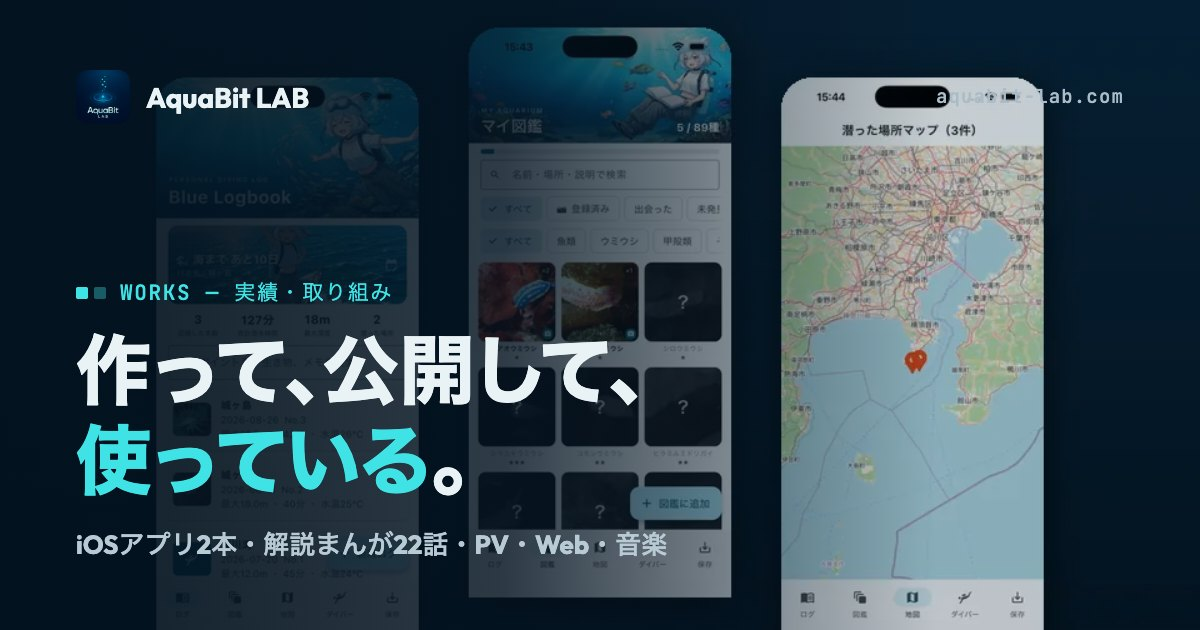
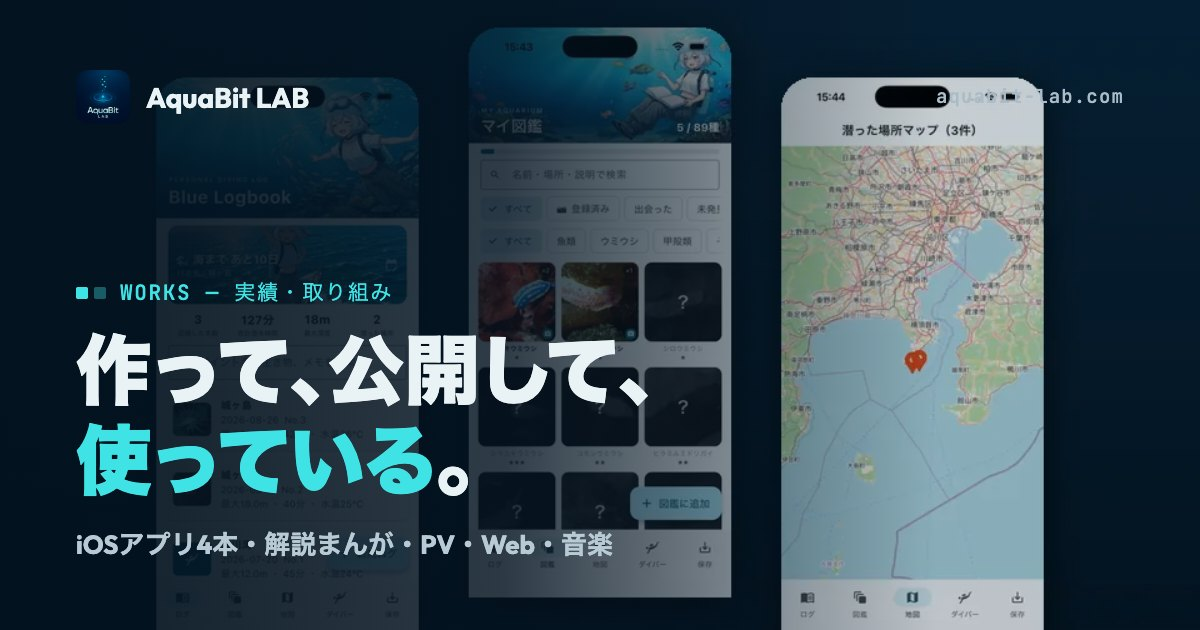
龍脈マップを「App Store で公開中」に・海学アプリも公開中に（実績・案内ページ・アプリ数を4本に）
- /ryumyaku/: App Store の公式バッジ、画面3枚、公開日、構造化データにダウンロード先、共有画像 og-ryumyaku.jpg
- /works: 龍脈マップと海学のカードを実画面つき・公開中に、ItemList に2本追加、共有画像の「2本」を「4本」に
- トップ・ABLとは・AI導入サポート・llms.txt のアプリ数と名前、sitemap の日付

diff --git a/works.html b/works.html
@@ -4,7 +4,7 @@
 <meta charset="utf-8">
 <meta name="viewport" content="width=device-width, initial-scale=1, viewport-fit=cover">
 <title>実績・取り組み｜AIで作ったアプリ・まんが・映像・Web｜AquaBit LAB</title>
-<meta name="description" content="AquaBit LABがAIといっしょに作り、公開・運用しているもの。App Storeで公開中のiOSアプリ「Blue Logbook」「いまメシ」、解説まんが22話、PV・データ映像、アルバム「魚歌」、Webサイトの全面リニューアル、AI検索対策、著書、AIウェビナーなど。">
+<meta name="description" content="AquaBit LABがAIといっしょに作り、公開・運用しているもの。App Storeで公開中のiOSアプリ「Blue Logbook」「いまメシ」「海学」「龍脈マップ」、解説まんが22話、PV・データ映像、アルバム「魚歌」、Webサイトの全面リニューアル、AI検索対策、著書、AIウェビナーなど。">
 <meta name="robots" content="index,follow,max-image-preview:large">
 <link rel="canonical" href="https://aquabit-lab.com/works">
 <meta name="theme-color" content="#03121f">
@@ -12,7 +12,7 @@
 <meta property="og:site_name" content="AquaBit LAB">
 <meta property="og:locale" content="ja_JP">
 <meta property="og:title" content="作って、公開して、使っている。— 実績・取り組み｜AquaBit LAB">
-<meta property="og:description" content="AquaBit LABがAIといっしょに作り、公開・運用しているもの。App Storeで公開中のiOSアプリ「Blue Logbook」「いまメシ」、解説まんが22話、PV・データ映像、アルバム「魚歌」、Webサイトの全面リニューアル、AI検索対策、著書、AIウェビナーなど。">
+<meta property="og:description" content="AquaBit LABがAIといっしょに作り、公開・運用しているもの。App Storeで公開中のiOSアプリ「Blue Logbook」「いまメシ」「海学」「龍脈マップ」、解説まんが22話、PV・データ映像、アルバム「魚歌」、Webサイトの全面リニューアル、AI検索対策、著書、AIウェビナーなど。">
 <meta property="og:url" content="https://aquabit-lab.com/works">
 <meta property="og:image" content="https://aquabit-lab.com/images/abl/og-works.jpg">
 <meta property="og:image:width" content="1200">
@@ -26,7 +26,7 @@
 <link rel="stylesheet" href="https://fonts.googleapis.com/css2?family=JetBrains+Mono:wght@400;500&family=Outfit:wght@500;700;800&display=swap" media="print" onload="this.media='all'">
 <link rel="stylesheet" href="/css/abl.css?v=20261013">
 <script>document.documentElement.classList.add('js')</script>
-<script type="application/ld+json">{"@context":"https://schema.org","@graph":[{"@type":"CollectionPage","name":"実績・取り組み","url":"https://aquabit-lab.com/works","isPartOf":{"@id":"https://aquabit-lab.com/#site"},"mainEntity":{"@type":"ItemList","itemListElement":[{"@type":"ListItem","position":1,"item":{"@type":"SoftwareApplication","name":"Blue Logbook - ダイビングログブック","operatingSystem":"iOS","applicationCategory":"SportsApplication","url":"https://apps.apple.com/jp/app/id6806158093","offers":{"@type":"Offer","price":"0","priceCurrency":"JPY"},"author":{"@type":"Person","name":"吉田 哲司"}}},{"@type":"ListItem","position":2,"item":{"@type":"SoftwareApplication","name":"いまメシ","operatingSystem":"iOS","applicationCategory":"FoodAndDrinkApplication","url":"https://apps.apple.com/jp/app/id6806607641","offers":{"@type":"Offer","price":"0","priceCurrency":"JPY"},"author":{"@type":"Person","name":"吉田 哲司"}}},{"@type":"ListItem","position":3,"item":{"@type":"CreativeWorkSeries","name":"まんがで読むダイビング","url":"https://miura-diving.com/manga/"}},{"@type":"ListItem","position":4,"item":{"@type":"MusicAlbum","name":"魚歌 UO-UTA","url":"https://tj-music.com/","numTracks":19}}]}},{"@type":"BreadcrumbList","itemListElement":[{"@type":"ListItem","position":1,"name":"ホーム","item":"https://aquabit-lab.com/"},{"@type":"ListItem","position":2,"name":"実績・取り組み","item":"https://aquabit-lab.com/works"}]}]}</script>
+<script type="application/ld+json">{"@context":"https://schema.org","@graph":[{"@type":"CollectionPage","name":"実績・取り組み","url":"https://aquabit-lab.com/works","isPartOf":{"@id":"https://aquabit-lab.com/#site"},"mainEntity":{"@type":"ItemList","itemListElement":[{"@type":"ListItem","position":1,"item":{"@type":"SoftwareApplication","name":"Blue Logbook - ダイビングログブック","operatingSystem":"iOS","applicationCategory":"SportsApplication","url":"https://apps.apple.com/jp/app/id6806158093","offers":{"@type":"Offer","price":"0","priceCurrency":"JPY"},"author":{"@type":"Person","name":"吉田 哲司"}}},{"@type":"ListItem","position":2,"item":{"@type":"SoftwareApplication","name":"いまメシ","operatingSystem":"iOS","applicationCategory":"FoodAndDrinkApplication","url":"https://apps.apple.com/jp/app/id6806607641","offers":{"@type":"Offer","price":"0","priceCurrency":"JPY"},"author":{"@type":"Person","name":"吉田 哲司"}}},{"@type":"ListItem","position":3,"item":{"@type":"SoftwareApplication","name":"龍脈マップ","operatingSystem":"iOS","applicationCategory":"TravelApplication","url":"https://apps.apple.com/jp/app/id6831985741","offers":{"@type":"Offer","price":"0","priceCurrency":"JPY"},"author":{"@type":"Person","name":"吉田 哲司"}}},{"@type":"ListItem","position":4,"item":{"@type":"SoftwareApplication","name":"海学","operatingSystem":"iOS","applicationCategory":"GameApplication","url":"https://apps.apple.com/jp/app/id6810276864","offers":{"@type":"Offer","price":"0","priceCurrency":"JPY"},"author":{"@type":"Person","name":"吉田 哲司"}}},{"@type":"ListItem","position":5,"item":{"@type":"CreativeWorkSeries","name":"まんがで読むダイビング","url":"https://miura-diving.com/manga/"}},{"@type":"ListItem","position":6,"item":{"@type":"MusicAlbum","name":"魚歌 UO-UTA","url":"https://tj-music.com/","numTracks":19}}]}},{"@type":"BreadcrumbList","itemListElement":[{"@type":"ListItem","position":1,"name":"ホーム","item":"https://aquabit-lab.com/"},{"@type":"ListItem","position":2,"name":"実績・取り組み","item":"https://aquabit-lab.com/works"}]}]}</script>
 </head>
 <body class="">
 <a class="skip" href="#main">本文へ移動</a>
@@ -97,23 +97,25 @@
         </div>
       </a>
       <a class="work work--row reveal" data-cat="apps" href="/ryumyaku/">
-        <div class="work__media" style="display:grid;place-items:center;background:radial-gradient(70% 80% at 60% 30%,#3a2f12,#03121f)"><div style="width:62%"><svg viewBox="0 0 600 420" aria-hidden="true" focusable="false"><ellipse cx="300" cy="300" rx="38" ry="10.6" fill="none" stroke="#3fe3e6" stroke-width="2" opacity="0.9"/><ellipse cx="300" cy="300" rx="86" ry="24.1" fill="none" stroke="#3fe3e6" stroke-width="1.6" opacity="0.6"/><ellipse cx="300" cy="300" rx="148" ry="41.4" fill="none" stroke="#3fe3e6" stroke-width="1.3" opacity="0.38"/><ellipse cx="300" cy="300" rx="222" ry="62.2" fill="none" stroke="#3fe3e6" stroke-width="1" opacity="0.22"/><ellipse cx="300" cy="300" rx="296" ry="82.9" fill="none" stroke="#3fe3e6" stroke-width="1" opacity="0.12"/><path d="M300 262c-6 12-9 20-9 27a9 9 0 0 0 18 0c0-7-3-15-9-27z" fill="#3fe3e6"/><rect x="289.9" y="240.8" width="11.9" height="11.9" rx="1.4" fill="#3fe3e6" opacity="1.00"/><rect x="295.4" y="238.0" width="10.2" height="10.2" rx="1.4" fill="#3fe3e6" opacity="0.97"/><rect x="296.0" y="232.9" width="8.2" height="8.2" rx="1.4" fill="#3fe3e6" opacity="0.95"/><rect x="286.7" y="222.8" width="8.5" height="8.5" rx="1.4" fill="#3fe3e6" opacity="0.92"/><rect x="303.5" y="216.6" width="8.7" height="8.7" rx="1.4" fill="#3fe3e6" opacity="0.89"/><rect x="296.6" y="209.9" width="13.7" height="13.7" rx="1.4" fill="#3fe3e6" opacity="0.87"/><rect x="290.0" y="200.1" width="13.9" height="13.9" rx="1.4" fill="#3fe3e6" opacity="0.84"/><rect x="307.0" y="201.3" width="9.7" height="9.7" rx="1.4" fill="#3fe3e6" opacity="0.82"/><rect x="281.3" y="194.0" width="9.9" height="9.9" rx="1.4" fill="#3fe3e6" opacity="0.79"/><rect x="281.8" y="180.3" width="11.5" height="11.5" rx="1.4" fill="#3fe3e6" opacity="0.76"/><rect x="290.5" y="177.5" width="8.3" height="8.3" rx="1.4" fill="#3fe3e6" opacity="0.74"/><rect x="277.1" y="178.1" width="6.2" height="6.2" rx="1.4" fill="#3fe3e6" opacity="0.71"/><rect x="293.1" y="165.4" width="6.9" height="6.9" rx="1.4" fill="#3fe3e6" opacity="0.68"/><rect x="294.2" y="160.1" width="6.8" height="6.8" rx="1.4" fill="#3fe3e6" opacity="0.66"/><rect x="307.5" y="152.0" width="6.5" height="6.5" rx="1.4" fill="#3fe3e6" opacity="0.63"/><rect x="296.3" y="146.1" width="10.3" height="10.3" rx="1.4" fill="#3fe3e6" opacity="0.61"/><rect x="281.8" y="138.1" width="10.9" height="10.9" rx="1.4" fill="#3fe3e6" opacity="0.58"/><rect x="290.1" y="138.6" width="9.5" height="9.5" rx="1.4" fill="#3fe3e6" opacity="0.55"/><rect x="296.7" y="134.3" width="5.2" height="5.2" rx="1.4" fill="#3fe3e6" opacity="0.53"/><rect x="314.0" y="121.3" width="8.4" height="8.4" rx="1.4" fill="#3fe3e6" opacity="0.50"/><rect x="282.0" y="112.7" width="9.2" height="9.2" rx="1.4" fill="#3fe3e6" opacity="0.47"/><rect x="302.1" y="110.0" width="7.7" height="7.7" rx="1.4" fill="#3fe3e6" opacity="0.45"/><rect x="330.8" y="101.3" width="7.8" height="7.8" rx="1.4" fill="#3fe3e6" opacity="0.42"/><rect x="259.8" y="96.2" width="9.2" height="9.2" rx="1.4" fill="#3fe3e6" opacity="0.39"/><rect x="336.5" y="89.8" width="9.9" height="9.9" rx="1.4" fill="#3fe3e6" opacity="0.37"/><rect x="285.6" y="87.6" width="9.0" height="9.0" rx="1.4" fill="#3fe3e6" opacity="0.34"/><rect x="293.5" y="85.6" width="6.0" height="6.0" rx="1.4" fill="#3fe3e6" opacity="0.32"/><rect x="254.2" y="76.6" width="9.6" height="9.6" rx="1.4" fill="#3fe3e6" opacity="0.29"/><rect x="272.1" y="71.4" width="7.3" height="7.3" rx="1.4" fill="#3fe3e6" opacity="0.26"/><rect x="254.6" y="57.6" width="7.7" height="7.7" rx="1.4" fill="#3fe3e6" opacity="0.24"/><rect x="334.1" y="53.5" width="9.9" height="9.9" rx="1.4" fill="#3fe3e6" opacity="0.21"/><rect x="273.0" y="45.4" width="7.5" height="7.5" rx="1.4" fill="#3fe3e6" opacity="0.18"/><rect x="336.1" y="42.6" width="10.7" height="10.7" rx="1.4" fill="#3fe3e6" opacity="0.18"/><rect x="260.9" y="40.7" width="6.4" height="6.4" rx="1.4" fill="#3fe3e6" opacity="0.18"/></svg></div><div class="work__badge"><span class="tag">近日公開</span><span class="tag">無料</span></div></div>
+        <div class="work__media"><img src="/images/abl/work-ryumyaku.webp" alt="龍脈マップのアプリ画面3枚。金の線で描いた尾根の地図、神社の「ここの読み方」、百人一首の便り" width="960" height="600" loading="lazy"><div class="work__badge"><span class="tag tag--live">App Store 公開中</span><span class="tag">無料</span></div></div>
         <div class="work__body">
-          <p class="work__cat">iOS APP · COMING SOON</p>
+          <p class="work__cat">iOS APP · 2026.11</p>
           <h3>龍脈マップ — 神社と、土地のかたちを見る地図</h3>
           <p>全国の神社・お寺・自然の場所 約10万か所と、国土地理院の標高から計算した尾根のつながり「龍脈」。暦と方位もいっしょに見られるiPhoneアプリです。場所のデータと作り方も公開しています。</p>
-          <p class="work__ai"><span class="tag tag--ai">AI</span>設計・実装・データの整備に伴走。何を作るかと、最後の確認は人が。</p>
-          <span class="work__more">案内とサポートを見る <svg class="arr" viewBox="0 0 24 24" fill="none" stroke="currentColor" stroke-width="1.6" stroke-linecap="round" stroke-linejoin="round" aria-hidden="true"><path d="M4 12h15M13 6l6 6-6 6"/></svg></span>
+          <p class="work__ai"><span class="tag tag--ai">AI</span>設計・実装・データの整備・App Store審査への対応に伴走。何を作るかと、最後の確認は人が。</p>
+          <span class="work__more">案内とダウンロード <svg class="arr" viewBox="0 0 24 24" fill="none" stroke="currentColor" stroke-width="1.6" stroke-linecap="round" stroke-linejoin="round" aria-hidden="true"><path d="M4 12h15M13 6l6 6-6 6"/></svg></span>
         </div>
       </a>
-      <div class="work work--row reveal" data-cat="apps">
-        <div class="work__media" style="display:grid;place-items:center;background:radial-gradient(70% 80% at 60% 30%,#0f4a63,#03121f)"><div style="width:62%"><svg viewBox="0 0 600 420" aria-hidden="true" focusable="false"><ellipse cx="300" cy="300" rx="38" ry="10.6" fill="none" stroke="#3fe3e6" stroke-width="2" opacity="0.9"/><ellipse cx="300" cy="300" rx="86" ry="24.1" fill="none" stroke="#3fe3e6" stroke-width="1.6" opacity="0.6"/><ellipse cx="300" cy="300" rx="148" ry="41.4" fill="none" stroke="#3fe3e6" stroke-width="1.3" opacity="0.38"/><ellipse cx="300" cy="300" rx="222" ry="62.2" fill="none" stroke="#3fe3e6" stroke-width="1" opacity="0.22"/><ellipse cx="300" cy="300" rx="296" ry="82.9" fill="none" stroke="#3fe3e6" stroke-width="1" opacity="0.12"/><path d="M300 262c-6 12-9 20-9 27a9 9 0 0 0 18 0c0-7-3-15-9-27z" fill="#3fe3e6"/><rect x="289.9" y="240.8" width="11.9" height="11.9" rx="1.4" fill="#3fe3e6" opacity="1.00"/><rect x="295.4" y="238.0" width="10.2" height="10.2" rx="1.4" fill="#3fe3e6" opacity="0.97"/><rect x="296.0" y="232.9" width="8.2" height="8.2" rx="1.4" fill="#3fe3e6" opacity="0.95"/><rect x="286.7" y="222.8" width="8.5" height="8.5" rx="1.4" fill="#3fe3e6" opacity="0.92"/><rect x="303.5" y="216.6" width="8.7" height="8.7" rx="1.4" fill="#3fe3e6" opacity="0.89"/><rect x="296.6" y="209.9" width="13.7" height="13.7" rx="1.4" fill="#3fe3e6" opacity="0.87"/><rect x="290.0" y="200.1" width="13.9" height="13.9" rx="1.4" fill="#3fe3e6" opacity="0.84"/><rect x="307.0" y="201.3" width="9.7" height="9.7" rx="1.4" fill="#3fe3e6" opacity="0.82"/><rect x="281.3" y="194.0" width="9.9" height="9.9" rx="1.4" fill="#3fe3e6" opacity="0.79"/><rect x="281.8" y="180.3" width="11.5" height="11.5" rx="1.4" fill="#3fe3e6" opacity="0.76"/><rect x="290.5" y="177.5" width="8.3" height="8.3" rx="1.4" fill="#3fe3e6" opacity="0.74"/><rect x="277.1" y="178.1" width="6.2" height="6.2" rx="1.4" fill="#3fe3e6" opacity="0.71"/><rect x="293.1" y="165.4" width="6.9" height="6.9" rx="1.4" fill="#3fe3e6" opacity="0.68"/><rect x="294.2" y="160.1" width="6.8" height="6.8" rx="1.4" fill="#3fe3e6" opacity="0.66"/><rect x="307.5" y="152.0" width="6.5" height="6.5" rx="1.4" fill="#3fe3e6" opacity="0.63"/><rect x="296.3" y="146.1" width="10.3" height="10.3" rx="1.4" fill="#3fe3e6" opacity="0.61"/><rect x="281.8" y="138.1" width="10.9" height="10.9" rx="1.4" fill="#3fe3e6" opacity="0.58"/><rect x="290.1" y="138.6" width="9.5" height="9.5" rx="1.4" fill="#3fe3e6" opacity="0.55"/><rect x="296.7" y="134.3" width="5.2" height="5.2" rx="1.4" fill="#3fe3e6" opacity="0.53"/><rect x="314.0" y="121.3" width="8.4" height="8.4" rx="1.4" fill="#3fe3e6" opacity="0.50"/><rect x="282.0" y="112.7" width="9.2" height="9.2" rx="1.4" fill="#3fe3e6" opacity="0.47"/><rect x="302.1" y="110.0" width="7.7" height="7.7" rx="1.4" fill="#3fe3e6" opacity="0.45"/><rect x="330.8" y="101.3" width="7.8" height="7.8" rx="1.4" fill="#3fe3e6" opacity="0.42"/><rect x="259.8" y="96.2" width="9.2" height="9.2" rx="1.4" fill="#3fe3e6" opacity="0.39"/><rect x="336.5" y="89.8" width="9.9" height="9.9" rx="1.4" fill="#3fe3e6" opacity="0.37"/><rect x="285.6" y="87.6" width="9.0" height="9.0" rx="1.4" fill="#3fe3e6" opacity="0.34"/><rect x="293.5" y="85.6" width="6.0" height="6.0" rx="1.4" fill="#3fe3e6" opacity="0.32"/><rect x="254.2" y="76.6" width="9.6" height="9.6" rx="1.4" fill="#3fe3e6" opacity="0.29"/><rect x="272.1" y="71.4" width="7.3" height="7.3" rx="1.4" fill="#3fe3e6" opacity="0.26"/><rect x="254.6" y="57.6" width="7.7" height="7.7" rx="1.4" fill="#3fe3e6" opacity="0.24"/><rect x="334.1" y="53.5" width="9.9" height="9.9" rx="1.4" fill="#3fe3e6" opacity="0.21"/><rect x="273.0" y="45.4" width="7.5" height="7.5" rx="1.4" fill="#3fe3e6" opacity="0.18"/><rect x="336.1" y="42.6" width="10.7" height="10.7" rx="1.4" fill="#3fe3e6" opacity="0.18"/><rect x="260.9" y="40.7" width="6.4" height="6.4" rx="1.4" fill="#3fe3e6" opacity="0.18"/></svg></div><div class="work__badge"><span class="tag">開発中</span></div></div>
+      <a class="work work--row reveal" data-cat="apps" href="https://miura-diving.com/umigaku-app/" target="_blank" rel="noopener">
+        <div class="work__media"><img src="/images/abl/work-umigaku-app.webp" alt="海学のアプリ画面3枚。ガチャで出会った海のなかま、歩数と相棒のホーム、今日の海のタロット" width="960" height="600" loading="lazy"><div class="work__badge"><span class="tag tag--live">App Store 公開中</span><span class="tag">無料</span></div></div>
         <div class="work__body">
-          <p class="work__cat">iOS APP · IN DEVELOPMENT</p>
-          <h3>三浦 海の学校 公式アプリ</h3>
-          <p>海の学校のお客さま向けのアプリを開発中です。歩いた日も、潜った日も、海とのつながりが続くように。</p>
+          <p class="work__cat">iOS APP · 2026.09</p>
+          <h3>海学 — 三浦 海の学校の公式アプリ</h3>
+          <p>歩いた日も、潜った日も、海とのつながりが続くように。歩数といっしょに海の相棒と過ごし、1日1枚の「海のタロット」や海のなかま図鑑を楽しめます。予約の相談は公式LINEへ。アカウント登録なしで使えます。</p>
+          <p class="work__ai"><span class="tag tag--ai">AI</span>キャラクターの絵・映像・音楽、設計と実装に伴走。何を作るかと、最後の確認は人が。</p>
+          <span class="work__more">アプリの案内を見る <svg class="arr" viewBox="0 0 24 24" fill="none" stroke="currentColor" stroke-width="1.6" stroke-linecap="round" stroke-linejoin="round" aria-hidden="true"><path d="M7 17L17 7M9 7h8v8"/></svg></span>
         </div>
-      </div>
+      </a>
     </div>
 
     <div class="works mt-l" id="media">

diff --git a/src/pages/works.html b/src/pages/works.html
@@ -1,7 +1,7 @@
 <!--@ {
 "title": "実績・取り組み｜AIで作ったアプリ・まんが・映像・Web｜AquaBit LAB",
 "og_title": "作って、公開して、使っている。— 実績・取り組み｜AquaBit LAB",
-"description": "AquaBit LABがAIといっしょに作り、公開・運用しているもの。App Storeで公開中のiOSアプリ「Blue Logbook」「いまメシ」、解説まんが22話、PV・データ映像、アルバム「魚歌」、Webサイトの全面リニューアル、AI検索対策、著書、AIウェビナーなど。",
+"description": "AquaBit LABがAIといっしょに作り、公開・運用しているもの。App Storeで公開中のiOSアプリ「Blue Logbook」「いまメシ」「海学」「龍脈マップ」、解説まんが22話、PV・データ映像、アルバム「魚歌」、Webサイトの全面リニューアル、AI検索対策、著書、AIウェビナーなど。",
 "path": "/works",
 "og": "og-works.jpg",
 "nav": "works",
@@ -11,8 +11,10 @@
    "mainEntity": {"@type": "ItemList", "itemListElement": [
      {"@type": "ListItem", "position": 1, "item": {"@type": "SoftwareApplication", "name": "Blue Logbook - ダイビングログブック", "operatingSystem": "iOS", "applicationCategory": "SportsApplication", "url": "https://apps.apple.com/jp/app/id6806158093", "offers": {"@type": "Offer", "price": "0", "priceCurrency": "JPY"}, "author": {"@type": "Person", "name": "吉田 哲司"}}},
      {"@type": "ListItem", "position": 2, "item": {"@type": "SoftwareApplication", "name": "いまメシ", "operatingSystem": "iOS", "applicationCategory": "FoodAndDrinkApplication", "url": "https://apps.apple.com/jp/app/id6806607641", "offers": {"@type": "Offer", "price": "0", "priceCurrency": "JPY"}, "author": {"@type": "Person", "name": "吉田 哲司"}}},
-     {"@type": "ListItem", "position": 3, "item": {"@type": "CreativeWorkSeries", "name": "まんがで読むダイビング", "url": "https://miura-diving.com/manga/"}},
-     {"@type": "ListItem", "position": 4, "item": {"@type": "MusicAlbum", "name": "魚歌 UO-UTA", "url": "https://tj-music.com/", "numTracks": 19}}
+     {"@type": "ListItem", "position": 3, "item": {"@type": "SoftwareApplication", "name": "龍脈マップ", "operatingSystem": "iOS", "applicationCategory": "TravelApplication", "url": "https://apps.apple.com/jp/app/id6831985741", "offers": {"@type": "Offer", "price": "0", "priceCurrency": "JPY"}, "author": {"@type": "Person", "name": "吉田 哲司"}}},
+     {"@type": "ListItem", "position": 4, "item": {"@type": "SoftwareApplication", "name": "海学", "operatingSystem": "iOS", "applicationCategory": "GameApplication", "url": "https://apps.apple.com/jp/app/id6810276864", "offers": {"@type": "Offer", "price": "0", "priceCurrency": "JPY"}, "author": {"@type": "Person", "name": "吉田 哲司"}}},
+     {"@type": "ListItem", "position": 5, "item": {"@type": "CreativeWorkSeries", "name": "まんがで読むダイビング", "url": "https://miura-diving.com/manga/"}},
+     {"@type": "ListItem", "position": 6, "item": {"@type": "MusicAlbum", "name": "魚歌 UO-UTA", "url": "https://tj-music.com/", "numTracks": 19}}
    ]}}
 ]
 } @-->
@@ -60,23 +62,25 @@
         </div>
       </a>
       <a class="work work--row reveal" data-cat="apps" href="/ryumyaku/">
-        <div class="work__media" style="display:grid;place-items:center;background:radial-gradient(70% 80% at 60% 30%,#3a2f12,#03121f)"><div style="width:62%">{{bits}}</div><div class="work__badge"><span class="tag">近日公開</span><span class="tag">無料</span></div></div>
+        <div class="work__media"><img src="/images/abl/work-ryumyaku.webp" alt="龍脈マップのアプリ画面3枚。金の線で描いた尾根の地図、神社の「ここの読み方」、百人一首の便り" width="960" height="600" loading="lazy"><div class="work__badge"><span class="tag tag--live">App Store 公開中</span><span class="tag">無料</span></div></div>
         <div class="work__body">
-          <p class="work__cat">iOS APP · COMING SOON</p>
+          <p class="work__cat">iOS APP · 2026.11</p>
           <h3>龍脈マップ — 神社と、土地のかたちを見る地図</h3>
           <p>全国の神社・お寺・自然の場所 約10万か所と、国土地理院の標高から計算した尾根のつながり「龍脈」。暦と方位もいっしょに見られるiPhoneアプリです。場所のデータと作り方も公開しています。</p>
-          <p class="work__ai"><span class="tag tag--ai">AI</span>設計・実装・データの整備に伴走。何を作るかと、最後の確認は人が。</p>
-          <span class="work__more">案内とサポートを見る {{arr}}</span>
+          <p class="work__ai"><span class="tag tag--ai">AI</span>設計・実装・データの整備・App Store審査への対応に伴走。何を作るかと、最後の確認は人が。</p>
+          <span class="work__more">案内とダウンロード {{arr}}</span>
         </div>
       </a>
-      <div class="work work--row reveal" data-cat="apps">
-        <div class="work__media" style="display:grid;place-items:center;background:radial-gradient(70% 80% at 60% 30%,#0f4a63,#03121f)"><div style="width:62%">{{bits}}</div><div class="work__badge"><span class="tag">開発中</span></div></div>
+      <a class="work work--row reveal" data-cat="apps" href="https://miura-diving.com/umigaku-app/" target="_blank" rel="noopener">
+        <div class="work__media"><img src="/images/abl/work-umigaku-app.webp" alt="海学のアプリ画面3枚。ガチャで出会った海のなかま、歩数と相棒のホーム、今日の海のタロット" width="960" height="600" loading="lazy"><div class="work__badge"><span class="tag tag--live">App Store 公開中</span><span class="tag">無料</span></div></div>
         <div class="work__body">
-          <p class="work__cat">iOS APP · IN DEVELOPMENT</p>
-          <h3>三浦 海の学校 公式アプリ</h3>
-          <p>海の学校のお客さま向けのアプリを開発中です。歩いた日も、潜った日も、海とのつながりが続くように。</p>
+          <p class="work__cat">iOS APP · 2026.09</p>
+          <h3>海学 — 三浦 海の学校の公式アプリ</h3>
+          <p>歩いた日も、潜った日も、海とのつながりが続くように。歩数といっしょに海の相棒と過ごし、1日1枚の「海のタロット」や海のなかま図鑑を楽しめます。予約の相談は公式LINEへ。アカウント登録なしで使えます。</p>
+          <p class="work__ai"><span class="tag tag--ai">AI</span>キャラクターの絵・映像・音楽、設計と実装に伴走。何を作るかと、最後の確認は人が。</p>
+          <span class="work__more">アプリの案内を見る {{ext}}</span>
         </div>
-      </div>
+      </a>
     </div>
 
     <div class="works mt-l" id="media">

diff --git a/ryumyaku/index.html b/ryumyaku/index.html
@@ -14,7 +14,7 @@
 <meta property="og:title" content="龍脈マップ — 神社と、その土地のかたちを見る地図｜AquaBit LAB">
 <meta property="og:description" content="iPhone アプリ「龍脈マップ」の案内とサポート。全国の神社・お寺・自然の場所 約10万か所の地図と、国土地理院の標高から計算した尾根のつながり（龍脈）、暦と方位、参拝のしるし。よくある質問とお問い合わせ先。無料・広告なし・アカウント不要。">
 <meta property="og:url" content="https://aquabit-lab.com/ryumyaku/">
-<meta property="og:image" content="https://aquabit-lab.com/images/abl/og-home.jpg">
+<meta property="og:image" content="https://aquabit-lab.com/images/abl/og-ryumyaku.jpg">
 <meta property="og:image:width" content="1200">
 <meta property="og:image:height" content="630">
 <meta name="twitter:card" content="summary_large_image">
@@ -26,7 +26,7 @@
 <link rel="stylesheet" href="https://fonts.googleapis.com/css2?family=JetBrains+Mono:wght@400;500&family=Outfit:wght@500;700;800&display=swap" media="print" onload="this.media='all'">
 <link rel="stylesheet" href="/css/abl.css?v=20261013">
 <script>document.documentElement.classList.add('js')</script>
-<script type="application/ld+json">{"@context":"https://schema.org","@graph":[{"@type":"MobileApplication","@id":"https://aquabit-lab.com/ryumyaku/#app","name":"龍脈マップ","url":"https://aquabit-lab.com/ryumyaku/","operatingSystem":"iOS","softwareRequirements":"iOS 15 以上","applicationCategory":"TravelApplication","inLanguage":"ja","isAccessibleForFree":true,"description":"全国の神社・お寺・自然の場所 約10万か所の地図と、国土地理院の標高から計算した尾根のつながり（龍脈）、暦と方位、参拝のしるしを見る iPhone アプリ。","publisher":{"@id":"https://aquabit-lab.com/#org"},"author":{"@id":"https://aquabit-lab.com/#org"}},{"@type":"BreadcrumbList","itemListElement":[{"@type":"ListItem","position":1,"name":"ホーム","item":"https://aquabit-lab.com/"},{"@type":"ListItem","position":2,"name":"龍脈マップ","item":"https://aquabit-lab.com/ryumyaku/"}]}]}</script>
+<script type="application/ld+json">{"@context":"https://schema.org","@graph":[{"@type":"MobileApplication","@id":"https://aquabit-lab.com/ryumyaku/#app","name":"龍脈マップ","url":"https://aquabit-lab.com/ryumyaku/","operatingSystem":"iOS","softwareRequirements":"iOS 15 以上","applicationCategory":"TravelApplication","inLanguage":"ja","isAccessibleForFree":true,"offers":{"@type":"Offer","price":"0","priceCurrency":"JPY"},"downloadUrl":"https://apps.apple.com/jp/app/id6831985741","installUrl":"https://apps.apple.com/jp/app/id6831985741","sameAs":["https://apps.apple.com/jp/app/id6831985741"],"datePublished":"2026-11-08","image":"https://aquabit-lab.com/images/abl/work-ryumyaku.webp","description":"全国の神社・お寺・自然の場所 約10万か所の地図と、国土地理院の標高から計算した尾根のつながり（龍脈）、暦と方位、参拝のしるしを見る iPhone アプリ。","publisher":{"@id":"https://aquabit-lab.com/#org"},"author":{"@id":"https://aquabit-lab.com/#org"}},{"@type":"BreadcrumbList","itemListElement":[{"@type":"ListItem","position":1,"name":"ホーム","item":"https://aquabit-lab.com/"},{"@type":"ListItem","position":2,"name":"龍脈マップ","item":"https://aquabit-lab.com/ryumyaku/"}]}]}</script>
 </head>
 <body class="">
 <a class="skip" href="#main">本文へ移動</a>
@@ -60,11 +60,12 @@
     <p class="eyebrow">IPHONE APP — 龍脈マップ</p>
     <h1 class="h1" id="page-title">龍脈マップ</h1>
     <p class="lead">神社と、その土地のかたちを見る地図です。全国の神社・お寺・自然の場所 約10万か所と、国土地理院の標高から計算した尾根のつながり「龍脈」。暦と方位もいっしょに、iPhone で。</p>
-    <div class="btn-row">
-      <a class="btn btn--aqua btn--lg" href="#faq">よくある質問 <svg class="arr" viewBox="0 0 24 24" fill="none" stroke="currentColor" stroke-width="1.6" stroke-linecap="round" stroke-linejoin="round" aria-hidden="true"><path d="M4 12h15M13 6l6 6-6 6"/></svg></a>
-      <a class="btn btn--ghost btn--lg" href="#contact">お問い合わせ</a>
+    <div class="btn-row" style="align-items:center">
+      <a href="https://apps.apple.com/jp/app/id6831985741" target="_blank" rel="noopener" aria-label="龍脈マップを App Store からダウンロード（新しいタブで開きます）"><img src="/images/abl/app-store-badge-ja.svg" alt="App Store からダウンロード" width="163" height="60" style="display:block;height:60px;width:auto"></a>
+      <a class="btn btn--ghost btn--lg" href="#faq">よくある質問 <svg class="arr" viewBox="0 0 24 24" fill="none" stroke="currentColor" stroke-width="1.6" stroke-linecap="round" stroke-linejoin="round" aria-hidden="true"><path d="M4 12h15M13 6l6 6-6 6"/></svg></a>
     </div>
-    <p class="hero__note"><span>iPhone（iOS 15 以上）</span><span>無料・広告なし</span><span>アカウント登録なし</span><span>App Store で近日公開</span></p>
+    <p class="hero__note"><span>iPhone（iOS 15 以上）</span><span>無料・広告なし</span><span>アカウント登録なし</span><span>App Store で公開中</span></p>
+    <p class="mt-l"><img src="/images/abl/work-ryumyaku.webp" alt="龍脈マップのアプリ画面3枚。金の線で描いた尾根の地図、神社の「ここの読み方」、百人一首の便り" width="960" height="600" style="display:block;width:100%;max-width:760px;height:auto;border-radius:18px"></p>
   </div>
 </section>
 
@@ -166,7 +167,7 @@
       <div><dt>アプリ</dt><dd>龍脈マップ</dd></div>
       <div><dt>動く端末</dt><dd>iPhone（iOS 15 以上）</dd></div>
       <div><dt>料金</dt><dd>無料（広告なし・アプリ内課金なし・アカウント登録なし）</dd></div>
-      <div><dt>公開</dt><dd>App Store で近日公開</dd></div>
+      <div><dt>公開</dt><dd><a href="https://apps.apple.com/jp/app/id6831985741" target="_blank" rel="noopener">App Store で公開中</a>（2026年11月8日から）</dd></div>
       <div><dt>運営</dt><dd>AquaBit LAB（代表 吉田 哲司）<small><a href="/about">AquaBit LAB について</a></small></dd></div>
       <div><dt>連絡先</dt><dd><a href="/contact?topic=other">お問い合わせフォーム</a> ／ <a href="mailto:info@aquabit-lab.com">info@aquabit-lab.com</a></dd></div>
       <div><dt>関連ページ</dt><dd><a href="/ryumyaku/privacy/">プライバシーポリシー（龍脈マップ）</a><br><a href="/ryumyaku/data/">場所のデータと作り方</a></dd></div>

diff --git a/src/pages/ryumyaku.html b/src/pages/ryumyaku.html
@@ -4,13 +4,17 @@
 "description": "iPhone アプリ「龍脈マップ」の案内とサポート。全国の神社・お寺・自然の場所 約10万か所の地図と、国土地理院の標高から計算した尾根のつながり（龍脈）、暦と方位、参拝のしるし。よくある質問とお問い合わせ先。無料・広告なし・アカウント不要。",
 "path": "/ryumyaku/",
 "out": "ryumyaku/index.html",
-"og": "og-home.jpg",
+"og": "og-ryumyaku.jpg",
 "nav": "",
 "crumbs": [["龍脈マップ", "/ryumyaku/"]],
 "jsonld": [
   {"@type": "MobileApplication", "@id": "https://aquabit-lab.com/ryumyaku/#app", "name": "龍脈マップ", "url": "https://aquabit-lab.com/ryumyaku/",
    "operatingSystem": "iOS", "softwareRequirements": "iOS 15 以上", "applicationCategory": "TravelApplication", "inLanguage": "ja",
    "isAccessibleForFree": true,
+   "offers": {"@type": "Offer", "price": "0", "priceCurrency": "JPY"},
+   "downloadUrl": "https://apps.apple.com/jp/app/id6831985741", "installUrl": "https://apps.apple.com/jp/app/id6831985741",
+   "sameAs": ["https://apps.apple.com/jp/app/id6831985741"], "datePublished": "2026-11-08",
+   "image": "https://aquabit-lab.com/images/abl/work-ryumyaku.webp",
    "description": "全国の神社・お寺・自然の場所 約10万か所の地図と、国土地理院の標高から計算した尾根のつながり（龍脈）、暦と方位、参拝のしるしを見る iPhone アプリ。",
    "publisher": {"@id": "https://aquabit-lab.com/#org"}, "author": {"@id": "https://aquabit-lab.com/#org"}}
 ]
@@ -22,11 +26,12 @@
     <p class="eyebrow">IPHONE APP — 龍脈マップ</p>
     <h1 class="h1" id="page-title">龍脈マップ</h1>
     <p class="lead">神社と、その土地のかたちを見る地図です。全国の神社・お寺・自然の場所 約10万か所と、国土地理院の標高から計算した尾根のつながり「龍脈」。暦と方位もいっしょに、iPhone で。</p>
-    <div class="btn-row">
-      <a class="btn btn--aqua btn--lg" href="#faq">よくある質問 {{arr}}</a>
-      <a class="btn btn--ghost btn--lg" href="#contact">お問い合わせ</a>
+    <div class="btn-row" style="align-items:center">
+      <a href="https://apps.apple.com/jp/app/id6831985741" target="_blank" rel="noopener" aria-label="龍脈マップを App Store からダウンロード（新しいタブで開きます）"><img src="/images/abl/app-store-badge-ja.svg" alt="App Store からダウンロード" width="163" height="60" style="display:block;height:60px;width:auto"></a>
+      <a class="btn btn--ghost btn--lg" href="#faq">よくある質問 {{arr}}</a>
     </div>
-    <p class="hero__note"><span>iPhone（iOS 15 以上）</span><span>無料・広告なし</span><span>アカウント登録なし</span><span>App Store で近日公開</span></p>
+    <p class="hero__note"><span>iPhone（iOS 15 以上）</span><span>無料・広告なし</span><span>アカウント登録なし</span><span>App Store で公開中</span></p>
+    <p class="mt-l"><img src="/images/abl/work-ryumyaku.webp" alt="龍脈マップのアプリ画面3枚。金の線で描いた尾根の地図、神社の「ここの読み方」、百人一首の便り" width="960" height="600" style="display:block;width:100%;max-width:760px;height:auto;border-radius:18px"></p>
   </div>
 </section>
 
@@ -128,7 +133,7 @@
       <div><dt>アプリ</dt><dd>龍脈マップ</dd></div>
       <div><dt>動く端末</dt><dd>iPhone（iOS 15 以上）</dd></div>
       <div><dt>料金</dt><dd>無料（広告なし・アプリ内課金なし・アカウント登録なし）</dd></div>
-      <div><dt>公開</dt><dd>App Store で近日公開</dd></div>
+      <div><dt>公開</dt><dd><a href="https://apps.apple.com/jp/app/id6831985741" target="_blank" rel="noopener">App Store で公開中</a>（2026年11月8日から）</dd></div>
       <div><dt>運営</dt><dd>AquaBit LAB（代表 吉田 哲司）<small><a href="/about">AquaBit LAB について</a></small></dd></div>
       <div><dt>連絡先</dt><dd><a href="/contact?topic=other">お問い合わせフォーム</a> ／ <a href="mailto:{{mail}}">{{mail}}</a></dd></div>
       <div><dt>関連ページ</dt><dd><a href="/ryumyaku/privacy/">プライバシーポリシー（龍脈マップ）</a><br><a href="/ryumyaku/data/">場所のデータと作り方</a></dd></div>

diff --git a/ai-service.html b/ai-service.html
@@ -148,7 +148,7 @@
       <div class="use reveal"><svg class="use__icon" viewBox="0 0 24 24" fill="none" stroke="currentColor" stroke-width="1.6" stroke-linecap="round" stroke-linejoin="round" aria-hidden="true"><path d="M6 3h8l4 4v14H6z"/><path d="M14 3v4h4M9 12h6M9 15.5h6M9 9h2"/></svg><h3>見積書・請求書・報告書などの書類</h3><p>毎回ゼロから作っている書類をひな形にして、AIが下書き。議事録や要約も。</p><p class="use__proof"><span class="tag tag--plain">実例</span>請求書づくり（社内運用）</p></div>
       <div class="use reveal" data-d="1"><svg class="use__icon" viewBox="0 0 24 24" fill="none" stroke="currentColor" stroke-width="1.6" stroke-linecap="round" stroke-linejoin="round" aria-hidden="true"><circle cx="11" cy="11" r="6.5"/><path d="M16 16l4.5 4.5"/><path d="M8.5 11h5M11 8.5v5"/></svg><h3>AI検索対策（AIO・LLMO）</h3><p>ChatGPTなどのAIに、お店や会社が正しく紹介されるように。AI向けの案内（llms.txt）・構造化データ・FAQを整えます。</p><p class="use__proof"><span class="tag tag--plain">実例</span><a href="https://miura-diving.com/llms.txt" target="_blank" rel="noopener">miura-diving.com/llms.txt</a></p></div>
       <div class="use reveal" data-d="2"><svg class="use__icon" viewBox="0 0 24 24" fill="none" stroke="currentColor" stroke-width="1.6" stroke-linecap="round" stroke-linejoin="round" aria-hidden="true"><rect x="3" y="4.5" width="18" height="15" rx="2"/><path d="M3 8.5h18M6.5 6.5h.01M9 6.5h.01"/></svg><h3>Webサイト・LP</h3><p>スマホで速く開けて、自分たちで直せて、AIにも読まれるサイトへ。</p><p class="use__proof"><span class="tag tag--plain">実例</span><a href="https://miura-diving.com/" target="_blank" rel="noopener">三浦 海の学校のサイト</a></p></div>
-      <div class="use reveal"><svg class="use__icon" viewBox="0 0 24 24" fill="none" stroke="currentColor" stroke-width="1.6" stroke-linecap="round" stroke-linejoin="round" aria-hidden="true"><rect x="6.5" y="2.5" width="11" height="19" rx="2.5"/><path d="M10.5 18.5h3"/></svg><h3>業務アプリ・iOSアプリ</h3><p>社内の小さな道具から、App Storeでの公開まで。コードが書けなくても、AIといっしょなら形にできます。</p><p class="use__proof"><span class="tag tag--plain">実例</span><a href="/works#apps">Blue Logbook・いまメシ</a></p></div>
+      <div class="use reveal"><svg class="use__icon" viewBox="0 0 24 24" fill="none" stroke="currentColor" stroke-width="1.6" stroke-linecap="round" stroke-linejoin="round" aria-hidden="true"><rect x="6.5" y="2.5" width="11" height="19" rx="2.5"/><path d="M10.5 18.5h3"/></svg><h3>業務アプリ・iOSアプリ</h3><p>社内の小さな道具から、App Storeでの公開まで。コードが書けなくても、AIといっしょなら形にできます。</p><p class="use__proof"><span class="tag tag--plain">実例</span><a href="/works#apps">Blue Logbook・いまメシ・龍脈マップ</a></p></div>
       <div class="use reveal" data-d="1"><svg class="use__icon" viewBox="0 0 24 24" fill="none" stroke="currentColor" stroke-width="1.6" stroke-linecap="round" stroke-linejoin="round" aria-hidden="true"><rect x="3" y="5" width="18" height="14" rx="2"/><path d="M10 9.5v5l4.5-2.5z"/></svg><h3>画像・動画・まんが</h3><p>商品やサービスの紹介、PV、解説まんが、SNS用の短い動画。</p><p class="use__proof"><span class="tag tag--plain">実例</span><a href="/works#media">解説まんが22話・PV</a></p></div>
       <div class="use reveal" data-d="2"><svg class="use__icon" viewBox="0 0 24 24" fill="none" stroke="currentColor" stroke-width="1.6" stroke-linecap="round" stroke-linejoin="round" aria-hidden="true"><rect x="5" y="8" width="14" height="11" rx="3"/><path d="M12 4v4M9 13h.01M15 13h.01M10 16.5h4"/><circle cx="12" cy="3.5" r="1"/></svg><h3>AIエージェントに仕事を任せる</h3><p>Claude Code・Codexなどに、調べもの・制作・点検をまとめて任せる運用の設計。</p><p class="use__proof"><span class="tag tag--plain">実例</span>このサイトの制作</p></div>
     </div>

diff --git a/src/pages/ai-service.html b/src/pages/ai-service.html
@@ -121,7 +121,7 @@
       <div class="use reveal">{{icon:doc:use__icon}}<h3>見積書・請求書・報告書などの書類</h3><p>毎回ゼロから作っている書類をひな形にして、AIが下書き。議事録や要約も。</p><p class="use__proof"><span class="tag tag--plain">実例</span>請求書づくり（社内運用）</p></div>
       <div class="use reveal" data-d="1">{{icon:search:use__icon}}<h3>AI検索対策（AIO・LLMO）</h3><p>ChatGPTなどのAIに、お店や会社が正しく紹介されるように。AI向けの案内（llms.txt）・構造化データ・FAQを整えます。</p><p class="use__proof"><span class="tag tag--plain">実例</span><a href="https://miura-diving.com/llms.txt" target="_blank" rel="noopener">miura-diving.com/llms.txt</a></p></div>
       <div class="use reveal" data-d="2">{{icon:web:use__icon}}<h3>Webサイト・LP</h3><p>スマホで速く開けて、自分たちで直せて、AIにも読まれるサイトへ。</p><p class="use__proof"><span class="tag tag--plain">実例</span><a href="https://miura-diving.com/" target="_blank" rel="noopener">三浦 海の学校のサイト</a></p></div>
-      <div class="use reveal">{{icon:phone:use__icon}}<h3>業務アプリ・iOSアプリ</h3><p>社内の小さな道具から、App Storeでの公開まで。コードが書けなくても、AIといっしょなら形にできます。</p><p class="use__proof"><span class="tag tag--plain">実例</span><a href="/works#apps">Blue Logbook・いまメシ</a></p></div>
+      <div class="use reveal">{{icon:phone:use__icon}}<h3>業務アプリ・iOSアプリ</h3><p>社内の小さな道具から、App Storeでの公開まで。コードが書けなくても、AIといっしょなら形にできます。</p><p class="use__proof"><span class="tag tag--plain">実例</span><a href="/works#apps">Blue Logbook・いまメシ・龍脈マップ</a></p></div>
       <div class="use reveal" data-d="1">{{icon:film:use__icon}}<h3>画像・動画・まんが</h3><p>商品やサービスの紹介、PV、解説まんが、SNS用の短い動画。</p><p class="use__proof"><span class="tag tag--plain">実例</span><a href="/works#media">解説まんが22話・PV</a></p></div>
       <div class="use reveal" data-d="2">{{icon:agent:use__icon}}<h3>AIエージェントに仕事を任せる</h3><p>Claude Code・Codexなどに、調べもの・制作・点検をまとめて任せる運用の設計。</p><p class="use__proof"><span class="tag tag--plain">実例</span>このサイトの制作</p></div>
     </div>

diff --git a/index.html b/index.html
@@ -87,8 +87,8 @@
 
 <div class="ticker" aria-hidden="true">
   <div class="ticker__track">
-    <span>現場メモ → ブログ記事と挿絵</span><span>解説まんが 22話＋動画版</span><span>公式LINE配信の仕組み化</span><span>iOSアプリ 2本 公開</span><span>AI検索対策 llms.txt</span><span>PV・データ映像</span><span>AIウェビナー 50回+</span><span>Vibe Coding</span><span>Claude Code × Codex</span>
-    <span>現場メモ → ブログ記事と挿絵</span><span>解説まんが 22話＋動画版</span><span>公式LINE配信の仕組み化</span><span>iOSアプリ 2本 公開</span><span>AI検索対策 llms.txt</span><span>PV・データ映像</span><span>AIウェビナー 50回+</span><span>Vibe Coding</span><span>Claude Code × Codex</span>
+    <span>現場メモ → ブログ記事と挿絵</span><span>解説まんが 22話＋動画版</span><span>公式LINE配信の仕組み化</span><span>iOSアプリ 4本 公開</span><span>AI検索対策 llms.txt</span><span>PV・データ映像</span><span>AIウェビナー 50回+</span><span>Vibe Coding</span><span>Claude Code × Codex</span>
+    <span>現場メモ → ブログ記事と挿絵</span><span>解説まんが 22話＋動画版</span><span>公式LINE配信の仕組み化</span><span>iOSアプリ 4本 公開</span><span>AI検索対策 llms.txt</span><span>PV・データ映像</span><span>AIウェビナー 50回+</span><span>Vibe Coding</span><span>Claude Code × Codex</span>
   </div>
 </div>
 
@@ -133,7 +133,7 @@
       </a></li>
       <li class="reveal"><a class="lablog__row" href="/works#apps">
         <span class="lablog__no">LOG.05</span>
-        <span class="lablog__what"><b>アプリ — iPhoneアプリを2本公開</b><small>Blue Logbook ／ いまメシ</small></span>
+        <span class="lablog__what"><b>アプリ — iPhoneアプリを4本公開</b><small>Blue Logbook ／ いまメシ ／ 海学 ／ 龍脈マップ</small></span>
         <span class="lablog__how"><span><span class="tag tag--human">人</span> 何を作るか決め、自分の指で確かめる</span><span><span class="tag tag--ai">AI</span> 設計・実装・審査への対応まで伴走</span></span>
         <span class="lablog__go"><svg class="arr" viewBox="0 0 24 24" fill="none" stroke="currentColor" stroke-width="1.6" stroke-linecap="round" stroke-linejoin="round" aria-hidden="true"><path d="M4 12h15M13 6l6 6-6 6"/></svg></span>
       </a></li>

diff --git a/src/pages/index.html b/src/pages/index.html
@@ -52,8 +52,8 @@
 
 <div class="ticker" aria-hidden="true">
   <div class="ticker__track">
-    <span>現場メモ → ブログ記事と挿絵</span><span>解説まんが 22話＋動画版</span><span>公式LINE配信の仕組み化</span><span>iOSアプリ 2本 公開</span><span>AI検索対策 llms.txt</span><span>PV・データ映像</span><span>AIウェビナー 50回+</span><span>Vibe Coding</span><span>Claude Code × Codex</span>
-    <span>現場メモ → ブログ記事と挿絵</span><span>解説まんが 22話＋動画版</span><span>公式LINE配信の仕組み化</span><span>iOSアプリ 2本 公開</span><span>AI検索対策 llms.txt</span><span>PV・データ映像</span><span>AIウェビナー 50回+</span><span>Vibe Coding</span><span>Claude Code × Codex</span>
+    <span>現場メモ → ブログ記事と挿絵</span><span>解説まんが 22話＋動画版</span><span>公式LINE配信の仕組み化</span><span>iOSアプリ 4本 公開</span><span>AI検索対策 llms.txt</span><span>PV・データ映像</span><span>AIウェビナー 50回+</span><span>Vibe Coding</span><span>Claude Code × Codex</span>
+    <span>現場メモ → ブログ記事と挿絵</span><span>解説まんが 22話＋動画版</span><span>公式LINE配信の仕組み化</span><span>iOSアプリ 4本 公開</span><span>AI検索対策 llms.txt</span><span>PV・データ映像</span><span>AIウェビナー 50回+</span><span>Vibe Coding</span><span>Claude Code × Codex</span>
   </div>
 </div>
 
@@ -98,7 +98,7 @@
       </a></li>
       <li class="reveal"><a class="lablog__row" href="/works#apps">
         <span class="lablog__no">LOG.05</span>
-        <span class="lablog__what"><b>アプリ — iPhoneアプリを2本公開</b><small>Blue Logbook ／ いまメシ</small></span>
+        <span class="lablog__what"><b>アプリ — iPhoneアプリを4本公開</b><small>Blue Logbook ／ いまメシ ／ 海学 ／ 龍脈マップ</small></span>
         <span class="lablog__how"><span><span class="tag tag--human">人</span> 何を作るか決め、自分の指で確かめる</span><span><span class="tag tag--ai">AI</span> 設計・実装・審査への対応まで伴走</span></span>
         <span class="lablog__go">{{arr}}</span>
       </a></li>

diff --git a/about.html b/about.html
@@ -156,7 +156,7 @@
           <li><b>1999</b><span>PADIインストラクター</span><p>本格的にダイバーの育成に携わる。</p></li>
           <li><b>2001</b><span>PADIコースディレクター</span><p>インストラクターを育てる立場に。</p></li>
           <li><b>2020s</b><span>AI・デジタルの制作と教育を始める</span><p>AI絵本の出版、AIウェビナーの開催。AquaBit LAB として活動を広げる。</p></li>
-          <li><b>2026</b><span>AIで、店を回す</span><p>三浦 海の学校の発信・案内・Webを、AIで回す仕組みに。iPhoneアプリを2本公開し、個人・中小企業のAI導入サポートを本格的に始める。</p></li>
+          <li><b>2026</b><span>AIで、店を回す</span><p>三浦 海の学校の発信・案内・Webを、AIで回す仕組みに。iPhoneアプリを4本公開し、個人・中小企業のAI導入サポートを本格的に始める。</p></li>
         </ol>
       </div>
       <div>

diff --git a/src/pages/about.html b/src/pages/about.html
@@ -117,7 +117,7 @@
           <li><b>1999</b><span>PADIインストラクター</span><p>本格的にダイバーの育成に携わる。</p></li>
           <li><b>2001</b><span>PADIコースディレクター</span><p>インストラクターを育てる立場に。</p></li>
           <li><b>2020s</b><span>AI・デジタルの制作と教育を始める</span><p>AI絵本の出版、AIウェビナーの開催。AquaBit LAB として活動を広げる。</p></li>
-          <li><b>2026</b><span>AIで、店を回す</span><p>三浦 海の学校の発信・案内・Webを、AIで回す仕組みに。iPhoneアプリを2本公開し、個人・中小企業のAI導入サポートを本格的に始める。</p></li>
+          <li><b>2026</b><span>AIで、店を回す</span><p>三浦 海の学校の発信・案内・Webを、AIで回す仕組みに。iPhoneアプリを4本公開し、個人・中小企業のAI導入サポートを本格的に始める。</p></li>
         </ol>
       </div>
       <div>
